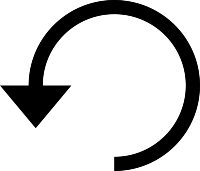
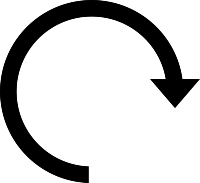
замена значка

diff --git a/src/note.js b/src/note.js
@@ -1,5 +1,5 @@
 import { Component } from "react";
-import del from './del.png'
+import done from './done.png'
 import red from './red.png'
 import returnI from './return.png'
 
@@ -77,7 +77,7 @@ export class AppCode extends Component{
         return(
             <form className="mainDiv" onSubmit={this.onFormSubmit}>
                 <div>
-                <h1>Список дел на сегодня</h1>
+                <h1>Список дел</h1>
                 <div className="addTaskDiv">
                     <input value={this.state.userInput} placeholder="Введите текст..." type='text' onChange={(e)=>{this.onChangeEvent(e.target.value)}} />
                     <button className="addBtn" onClick={()=>this.addItem(this.state.userInput)}>+</button>
@@ -87,8 +87,8 @@ export class AppCode extends Component{
                         <li key={index}>
                             {item }                  
                             <div>
-                               <img src={del} width='25px' alt='del' onClick={()=>this.deleteOne(item,index)}  />
-                               <img src={red} width='25px' alt='red' onClick={()=>this.redact(item,index)} />
+                               <img src={done} width='26px' alt='del' onClick={()=>this.deleteOne(item,index)}  />
+                               <img src={red} width='30px' alt='red' onClick={()=>this.redact(item,index)} />
                             </div>
                         </li>
                     ))}

diff --git a/src/App.js b/src/App.js
@@ -3,10 +3,8 @@ import { AppCode } from './note';
 
 function App() {
   return (
-    <div >
+    <div className="App">
       <AppCode/>
-
- 
     </div>
   );
 }
